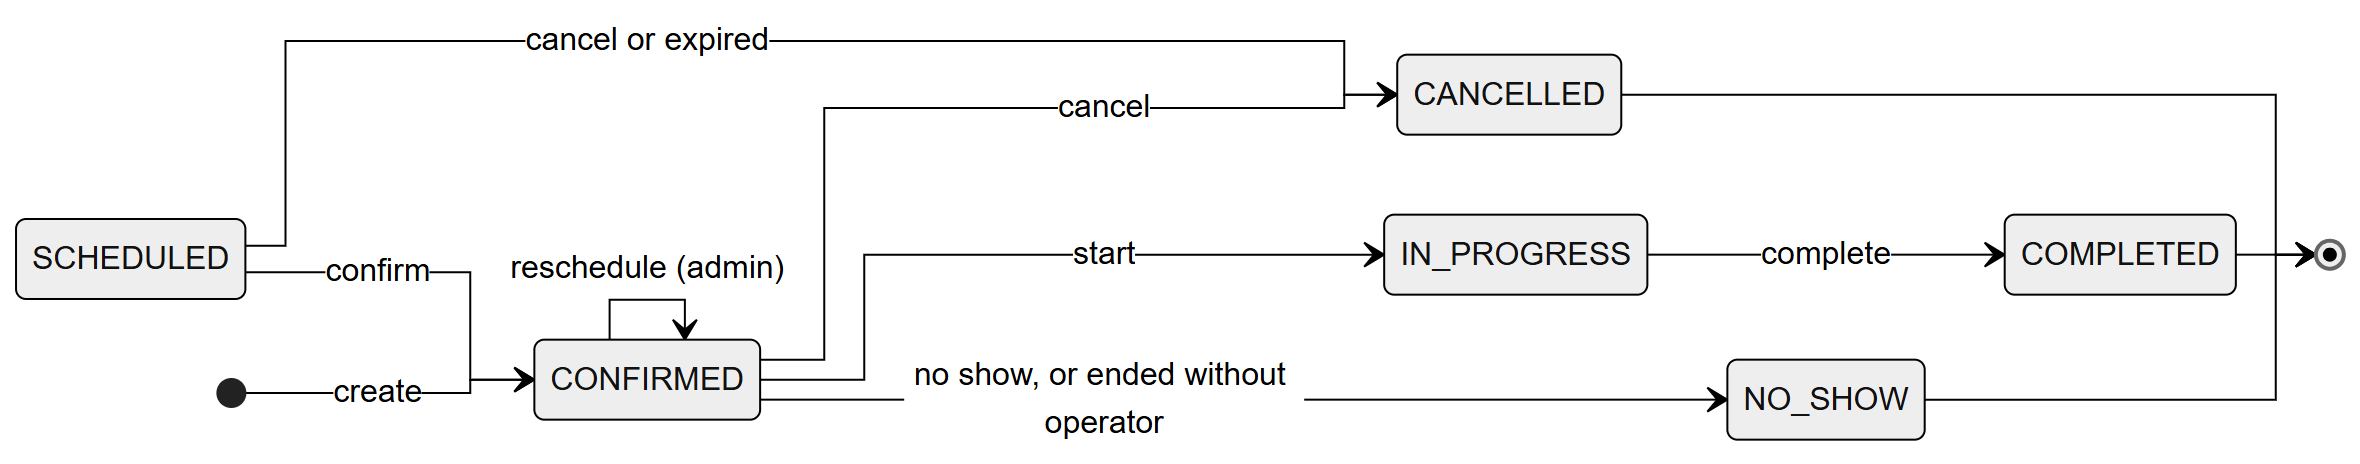
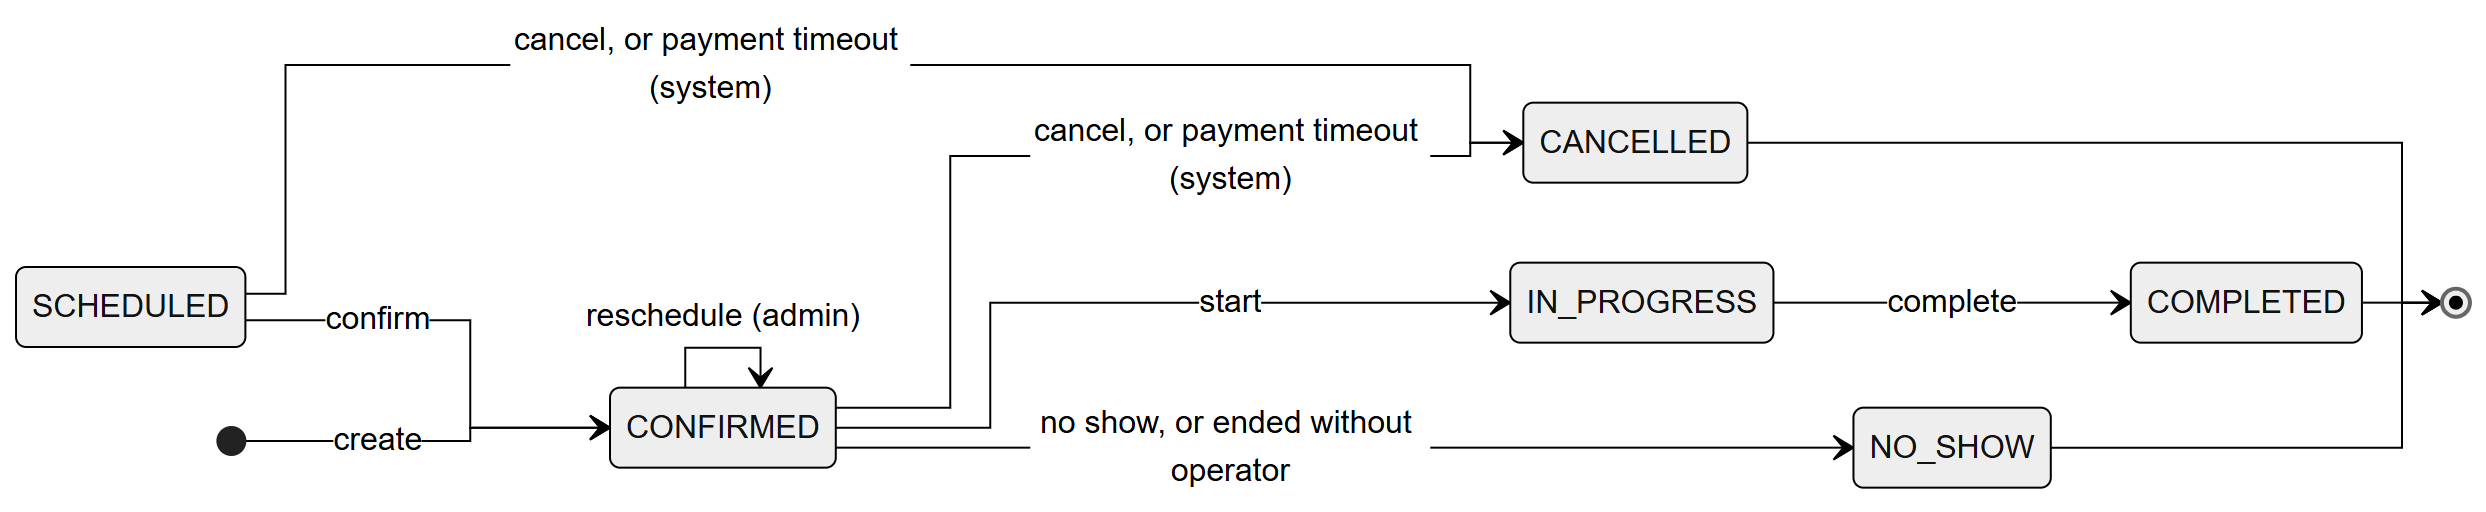
docs(uml): add the payment fields, PaymentMode and PaymentPolicy to booking and the timeout from SCHEDULED

diff --git a/08-uml/diagrams/source/class-booking.md b/08-uml/diagrams/source/class-booking.md
@@ -1,6 +1,7 @@
 # Class diagram — booking-service domain (catalog and booking)
 
-Source: `lavarapido-booking-service/src/main/java/com/lavarapido/booking/domain` as of 2026-10-20.
+Source: `lavarapido-booking-service/src/main/java/com/lavarapido/booking/domain` as of 2026-10-20; payment at
+booking (`PaymentMode`, `PaymentPolicy`) and `AvailabilityPolicy.withoutBusyTimes` added on 2026-10-27 (`main`, `506feca`).
 Getters, `restore(...)` factories and the 21 legal fields of `Establishment` are left out.
 
 ```mermaid
@@ -19,11 +20,16 @@ classDiagram
         -BigDecimal pointsDiscountAmount
         -String notes
         -Instant createdAt
-        +confirmNew(long vehicleId, List~BookingLine~, Instant, Instant, ...)$ Booking
+        -PaymentMode paymentMode
+        -Instant paymentDeadline
+        -Instant paymentReportedAt
+        +confirmNew(long vehicleId, List~BookingLine~, Instant, Instant, ..., PaymentMode, Instant deadline)$ Booking
         +reschedule(List~BookingLine~, Instant, Instant, short bayId, String)
         +cancel(CancellationReason)
         +moveTo(BookingStatus)
         +changeableByCustomer(Instant) boolean
+        +markPaymentReported(Instant) boolean
+        +paymentOverdue(Instant) boolean
         +subtotal() BigDecimal
         +total() BigDecimal
         +durationMinutes() int
@@ -61,6 +67,19 @@ classDiagram
         String code
         String name
         boolean customerFault
+        +selectableBy(boolean admin) boolean
+    }
+    class PaymentMode {
+        <<enumeration>>
+        DIGITAL
+        CASH
+        +of(String)$ PaymentMode
+        +ofOptional(String)$ PaymentMode
+    }
+    class PaymentPolicy {
+        <<domain service>>
+        +deadlineFor(PaymentMode, Instant created, Instant start, Duration window)$ Instant
+        +requireCashAllowed(long activeCash, int limit)$
     }
     class CatalogItem {
         <<aggregate root>>
@@ -162,6 +181,7 @@ classDiagram
         +slots(LocalDate, Optional~DayWindow~, List~Short~ bays, ...) List~Slot~
         +freeBay(LocalDateTime, LocalDateTime, List~Short~, ...) Optional~Short~
         +alternatives(List~Slot~, LocalTime, int max) List~LocalTime~
+        +withoutBusyTimes(List~Slot~, LocalDate, int minutes, List~Occupancy~)$ List~Slot~
         +whyUnavailable(List~Slot~, Optional~DayWindow~, ...) UnavailableReason
     }
     class UnavailableReason {
@@ -184,6 +204,7 @@ classDiagram
     Booking "1" *-- "1..*" BookingLine : lines
     Booking --> BookingStatus
     Booking --> "0..1" CancellationReason
+    Booking --> "0..1" PaymentMode
     Booking ..> ServiceBay : serviceBayId
     Booking ..> VehicleSnapshot : customerVehicleId (customer-service)
     BookingLine ..> ServicePrice : servicePriceId
@@ -203,6 +224,13 @@ Rules kept by these classes:
 - A booking only takes a time with a free bay inside the day window (`AvailabilityPolicy`); when it is
   not possible, the API answers 409 with the `reason` from `UnavailableReason` and the nearest
   `alternatives` (5 by default, `app.booking.alternatives`).
+- Payment at booking (ADR-021): `PaymentMode.of` makes the client choose `DIGITAL` or `CASH` (400
+  `INVALID_PAYMENT_MODE`); `PaymentPolicy.requireCashAllowed` refuses a second active cash booking (409
+  `CASH_BOOKING_LIMIT`); `PaymentPolicy.deadlineFor` gives a `DIGITAL` booking `min(creation + 30 min, start)`.
+  `paymentOverdue` is true for a `DIGITAL` booking still `SCHEDULED` or `CONFIRMED`, past its deadline and
+  without `paymentReportedAt`; `markPaymentReported` records the first report (event or check). The reasons
+  `EXPIRED` and `PAYMENT_TIMEOUT` are not selectable by anyone (`CancellationReason.selectableBy`).
+- The alternatives skip the times when the same vehicle has another booking (`withoutBusyTimes`, 2026-10-27).
 - `changeableByCustomer` allows a client change only while the booking is `SCHEDULED` or `CONFIRMED`
   and its start time has not passed; the admin only needs the status (`BookingService.requireChangeableBy`).
   In practice the client only cancels (reason `CUSTOMER_REQUEST`, nothing asked); rescheduling is done

diff --git a/08-uml/diagrams/source/state-booking.md b/08-uml/diagrams/source/state-booking.md
@@ -3,14 +3,14 @@
 Source: `booking-service` `Booking.moveTo`, `Booking.cancel`, `Booking.reschedule`,
 `Booking.markUnattended`, `BookingStatus`; `operations-service` `FollowUpPolicy`, `FollowUpService`.
 Checked on 2026-10-21; events and the look-back window checked against `origin/develop` on 2026-10-23;
-the expiry job removed and the client reschedule rule checked on 2026-10-24; payment timeout added on 2026-10-26.
+the expiry job removed and the client reschedule rule checked on 2026-10-24; payment timeout added on 2026-10-26 (also from `SCHEDULED`, 2026-10-27).
 
 ```mermaid
 stateDiagram-v2
     direction LR
     [*] --> CONFIRMED : create
     SCHEDULED --> CONFIRMED : confirm
-    SCHEDULED --> CANCELLED : cancel
+    SCHEDULED --> CANCELLED : cancel, or payment timeout (system)
     CONFIRMED --> CONFIRMED : reschedule (admin)
     CONFIRMED --> IN_PROGRESS : start
     CONFIRMED --> CANCELLED : cancel, or payment timeout (system)
